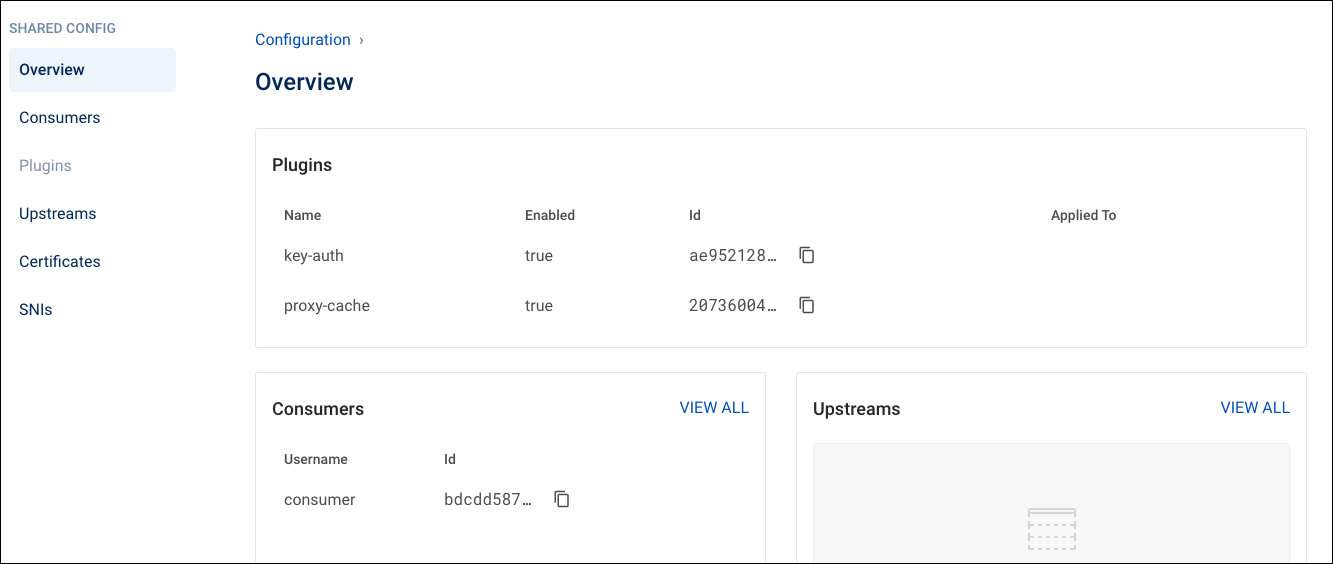
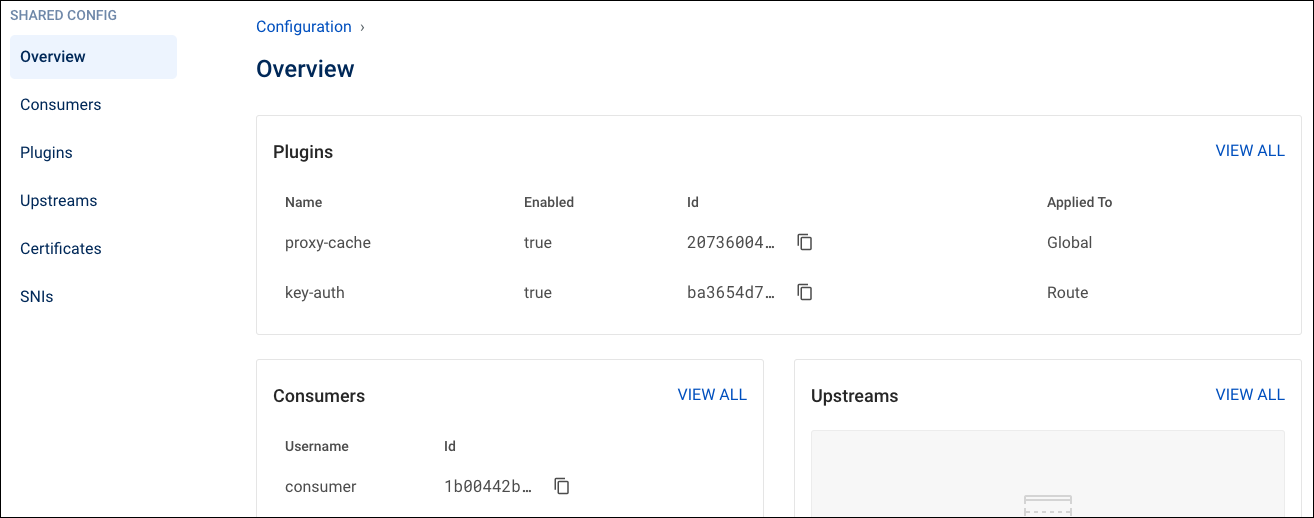
shared config doc; global plugins; screenshots; update nav

diff --git a/app/konnect/shared-config/plugins.md b/app/konnect/shared-config/plugins.md
@@ -1,0 +1,68 @@
+---
+title: Manage Plugins through Shared Config
+no_version: true
+---
+
+Through shared config, you can manage global and consumer-scoped plugins.
+
+**Global plugins** are plugins that apply to all services, routes, and consumers
+in the cluster, as applicable.
+
+The shared config overview shows all plugins in the cluster. However, you can
+only edit **global** or **consumer-scoped** plugins here.
+Service and route plugins must be managed through the [ServiceHub](/konnect/servicehub/plugins).
+
+## Configure a new plugin
+
+1. From the left navigation menu, open the
+![icon](/assets/images/icons/konnect/konnect-shared-config.svg){:.inline .no-image-expand}
+**Shared Config** page.
+
+2. Select **Plugins** from the menu, then click **New Plugin**.
+
+3. Find and select the plugin of your choice.
+
+3. Choose whether to make this plugin **Global** or **Scoped** to a consumer.
+
+    For some plugins, there is only one option:
+    * If that option is **Global**, you don't need to do anything else with it.
+    * If the option is **Scoped**, select a consumer to scope it to.
+
+4. Enter the plugin configuration details. These differ for every plugin.
+
+    See the [Plugin Hub](/hub) for parameter descriptions.
+
+5. Click **Create**.
+
+## Disable or enable a plugin
+
+Disabling a plugin leaves its configuration intact, and you can re-enable the
+plugin at any time.
+
+1. Open the
+![icon](/assets/images/icons/konnect/konnect-shared-config.svg){:.inline .no-image-expand}
+Shared Config overview, then select **View All** for the plugins
+list, or open **Plugins** from the menu.
+
+2. Find your plugin in the plugins list and click **Edit**.
+
+3. Switch the toggle at the top of the configuration to your preferred state,
+then scroll down and click **Update**.
+
+## Update or delete a plugin
+
+Deleting a plugin completely removes it and its configuration from
+{{site.konnect_short_name}}.
+
+1. Open the
+![icon](/assets/images/icons/konnect/konnect-shared-config.svg){:.inline .no-image-expand}
+Shared Config overview, then select **View All** for the plugins
+list, or open **Plugins** from the menu.
+
+2. Find your plugin in the plugins list and click **Edit**.
+
+3. Click **Edit Plugin** in the top right. On the configuration page:
+
+    * To update, adjust any values, then click **Update**.
+
+    * To delete, scroll to the bottom and click **Delete**.

diff --git a/app/konnect/shared-config/index.md b/app/konnect/shared-config/index.md
@@ -1,0 +1,24 @@
+---
+title: Shared Config
+no_version: true
+toc: false
+---
+
+[Shared configuration](https://konnect.konghq.com/configuration/)
+defines {{site.konnect_short_name}} objects that are not tied to a specific
+service, route, or Dev Portal.
+
+![Shared configuration overview](/assets/images/docs/konnect/konnect-shared-conf-overview.png)
+
+Use the ![icon](/assets/images/icons/konnect/konnect-shared-config.svg){:.inline .no-image-expand}
+**Shared Config** page in {{site.konnect_saas}} to manage consumers,
+upstreams, certificates, SNIs, and global and consumer-scoped plugins.
+
+* [Configure global and consumer-scoped plugins](/konnect/shared-config/plugins)
+
+* Object configuration references:
+    * [Consumers](/enterprise/latest/admin-api/#consumer-object)
+    * [Plugins](/enterprise/latest/admin-api/#plugin-object)
+    * [Upstreams](/enterprise/latest/admin-api/#upstream-object)
+    * [Certificates](/enterprise/latest/admin-api/#certificate-object)
+    * [SNIs](/enterprise/latest/admin-api/#sni-object)

diff --git a/app/konnect/getting-started/declarative-config.md b/app/konnect/getting-started/declarative-config.md
@@ -13,7 +13,7 @@ In {{site.konnect_saas}}, decK can manage:
 plugins.
 * **Dev Portal documents:** Specs and markdown files.
 * **Shared configuration:** Manage consumers, upstreams, and global plugins with
-declarative config. Global plugins appear in {{site.konnect_saas}} as read-only.
+declarative config.
 
 To do this, you need [decK v1.7.0 or later](/deck/).
 
